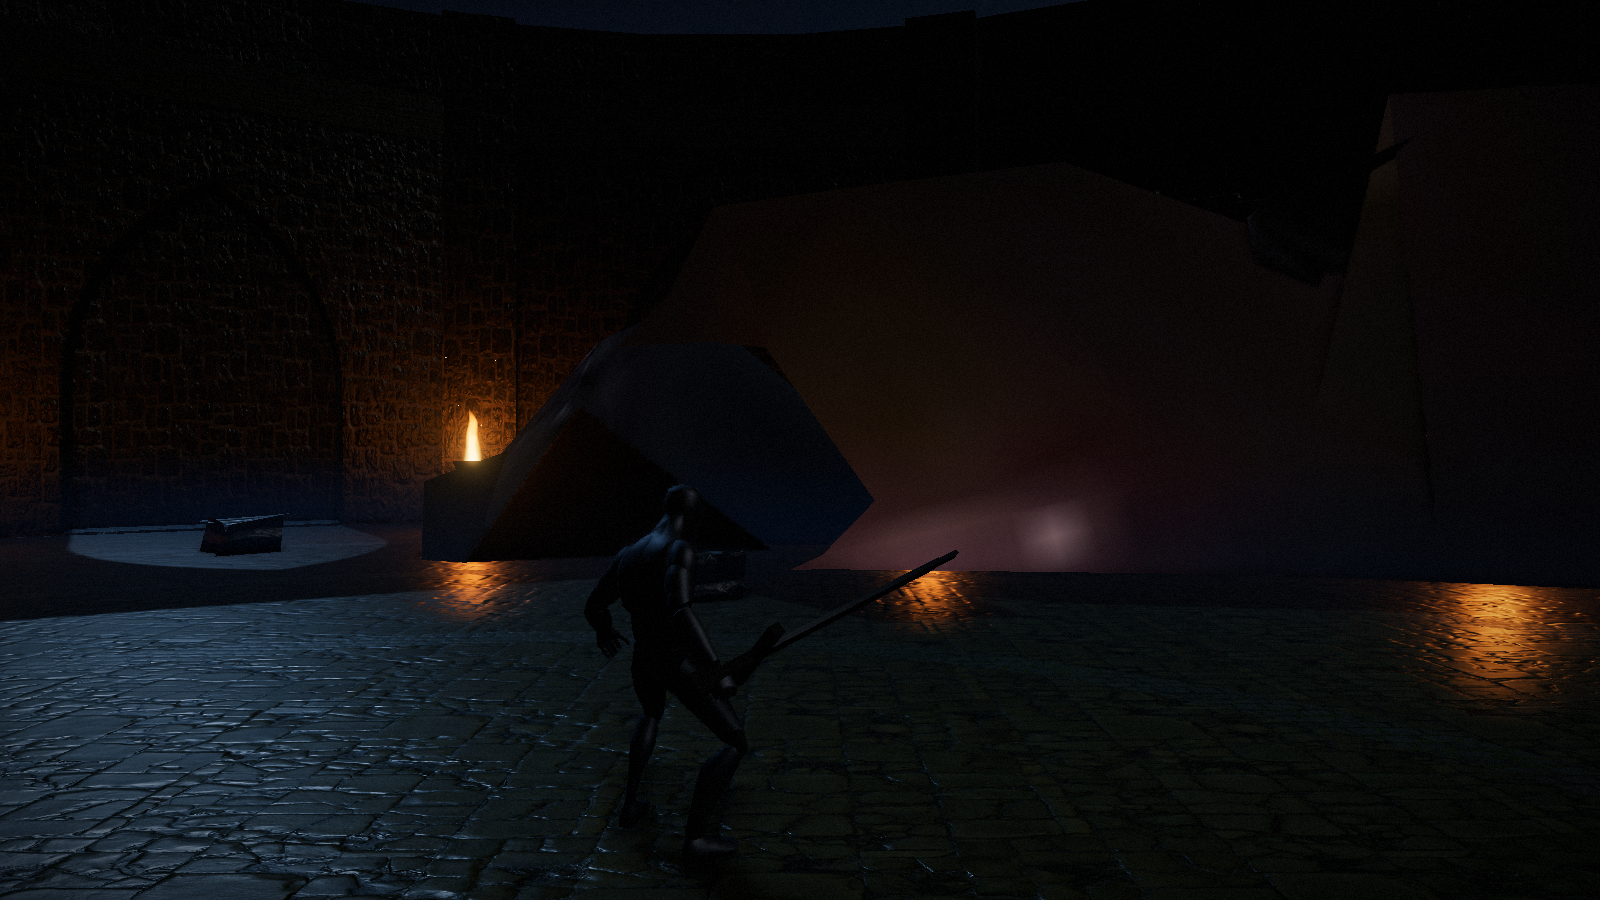
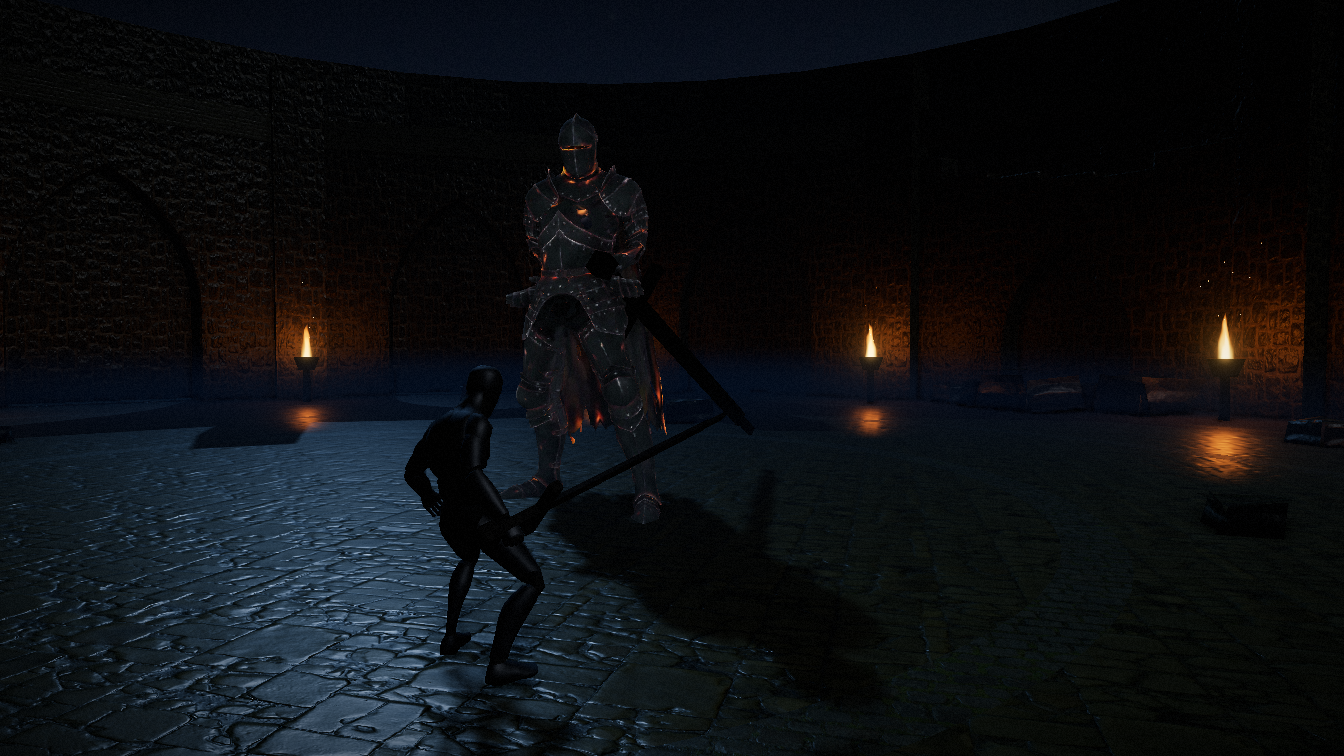
Retarget próprio do Vharen: pose parada correta, movimento ainda não
Troquei o SkeletonUtils.retarget do Three por um retarget escrito à mão, só de
rotação: guarda a rotação entre os repousos dos dois esqueletos e aplica
alvo_mundo = fonte_mundo * offset, convertendo pro espaço local do pai, com os
ossos ordenados por profundidade. O utilitário do Three estourava a malha de
1,95 para 17 595 metros numa única chamada.

Com isso a escala parou de explodir, o chefe fica na altura certa e plantado no
chão por medição do pé mais baixo a cada frame. Parado, é o cavaleiro do
concept, com as brasas acesas nas costuras.

Em movimento ainda deforma: partes do corpo se separam e o andar parece galope.
As proporções e os eixos de repouso dos dois esqueletos são diferentes demais
pra correspondência osso a osso sem ajuste manual. Fica atrás de ?vharen e o
padrão segue o mannequim CC0, que anima certo.

Três medidas que valem registro estão em docs/decisions.md: a coluna do modelo
gerado tem a numeração invertida, o nó da malha carrega escala 0,01 embutida, e
a caixa da geometria mente porque ignora o esfolamento.

diff --git a/src/entities/anim/retarget.ts b/src/entities/anim/retarget.ts
@@ -1,5 +1,5 @@
-import { Object3D, type Material, type Mesh, type SkinnedMesh } from 'three/webgpu'
-import { clone as cloneSkinned, retarget } from 'three/addons/utils/SkeletonUtils.js'
+import { Object3D, Quaternion, Vector3, type Bone, type Material, type Mesh, type SkinnedMesh } from 'three/webgpu'
+import { clone as cloneSkinned } from 'three/addons/utils/SkeletonUtils.js'
 import type { GLTF } from 'three/addons/loaders/GLTFLoader.js'
 
 /**
@@ -8,14 +8,14 @@ import type { GLTF } from 'three/addons/loaders/GLTFLoader.js'
  * O modelo do Vharen sai do image-to-3D com nomenclatura padrão de humanoide
  * (`Hips`, `LeftArm`, `RightHand`), e a biblioteca de animação usa a do Rigify
  * (`DEF-hips`, `DEF-upper_arm.L`), que o carregador de glTF do Three ainda
- * limpa tirando os pontos. Este mapa é a ponte entre os dois.
+ * limpa tirando os pontos.
+ *
+ * Cuidado com a coluna: a cadeia do modelo gerado é
+ * `Hips -> Spine02 -> Spine01 -> Spine`, ou seja `Spine02` é a vértebra de
+ * baixo e `Spine` é a de cima, ao contrário do que o nome sugere.
  */
 const BONE_MAP: Record<string, string> = {
   Hips: 'DEF-hips',
-  // Cuidado com a coluna: a cadeia do modelo gerado é
-  // `Hips -> Spine02 -> Spine01 -> Spine`, ou seja `Spine02` é a vértebra de
-  // baixo e `Spine` é a de cima, ao contrário do que o nome sugere. Mapear na
-  // ordem óbvia torce o tronco e a malha vira uma cunha.
   Spine02: 'DEF-spine001',
   Spine01: 'DEF-spine002',
   Spine: 'DEF-spine003',
@@ -39,6 +39,15 @@ const BONE_MAP: Record<string, string> = {
   RightToeBase: 'DEF-toeR',
 }
 
+interface Pair {
+  target: Bone
+  source: Bone
+  /** Rotação que leva do repouso da fonte pro repouso do alvo, em mundo. */
+  offset: Quaternion
+  /** Profundidade na hierarquia. Serve pra processar pai antes de filho. */
+  depth: number
+}
+
 export interface RetargetedSkin {
   root: Object3D
   hand: Object3D | null
@@ -47,8 +56,8 @@ export interface RetargetedSkin {
 }
 
 export interface SkinOptions {
-  /** Escala aplicada na raiz. O modelo gerado vem em centésimos de metro. */
-  scale: number
+  /** Altura desejada do personagem em metros. A escala sai daqui. */
+  height: number
   material?: Material
   castShadow?: boolean
 }
@@ -56,11 +65,17 @@ export interface SkinOptions {
 /**
  * Veste um esqueleto animado com outra malha.
  *
- * Em vez de assar cada clipe da biblioteca no esqueleto novo, o esqueleto CC0
- * continua dirigindo a animação, invisível, e a pose é copiada pro modelo
- * gerado a cada frame. Reaproveita a máquina de estados inteira, não depende de
- * assar 46 clipes que podem sair errados, e custa 22 ossos por frame, que é
- * nada. O preço é uma malha a mais na cena, que já estava no orçamento.
+ * O `SkeletonUtils.retarget` do Three não dá conta destes dois esqueletos: uma
+ * única chamada estoura a malha de 1,95 para 17 mil metros, porque ele escreve
+ * matrizes derivadas do espaço de mundo de volta nos ossos locais e a diferença
+ * de escala entre as duas hierarquias entra junto.
+ *
+ * Este retarget faz a conta explícita e só com rotação, que é o que interessa:
+ * para cada par de ossos, guarda no início a rotação que leva do repouso da
+ * fonte pro repouso do alvo, e a cada frame aplica
+ * `alvo_mundo = fonte_mundo * essa_rotação`, convertendo pro espaço local do
+ * pai do alvo. Nenhuma escala entra na conta, então nada acumula. Só o quadril
+ * carrega posição, escalada pela razão de altura entre os dois esqueletos.
  */
 export function createRetargetedSkin(
   gltf: GLTF,
@@ -68,13 +83,12 @@ export function createRetargetedSkin(
   options: SkinOptions,
 ): RetargetedSkin {
   const root = cloneSkinned(gltf.scene) as Object3D
-  root.scale.setScalar(options.scale)
 
-  let target: SkinnedMesh | null = null
+  let targetMesh: SkinnedMesh | null = null
   let hand: Object3D | null = null
   root.traverse((child) => {
     const mesh = child as SkinnedMesh
-    if (mesh.isSkinnedMesh && !target) target = mesh
+    if (mesh.isSkinnedMesh && !targetMesh) targetMesh = mesh
     if ((child as Mesh).isMesh) {
       const asMesh = child as Mesh
       asMesh.castShadow = options.castShadow ?? true
@@ -85,6 +99,60 @@ export function createRetargetedSkin(
   })
 
   const sourceMesh = findSkinnedMesh(source)
+  const pairs: Pair[] = []
+
+  if (targetMesh && sourceMesh) {
+    const target = targetMesh as SkinnedMesh
+    const from = sourceMesh as SkinnedMesh
+    // Repouso dos dois, pra medir a diferença de orientação uma vez só.
+    target.skeleton.pose()
+    from.skeleton.pose()
+    root.updateMatrixWorld(true)
+    source.updateMatrixWorld(true)
+
+    const sourceQuat = new Quaternion()
+    const targetQuat = new Quaternion()
+
+    for (const bone of target.skeleton.bones) {
+      const sourceName = BONE_MAP[bone.name]
+      if (!sourceName) continue
+      const sourceBone = from.skeleton.bones.find((b) => b.name === sourceName)
+      if (!sourceBone) continue
+
+      bone.matrixWorld.decompose(new Vector3(), targetQuat, new Vector3())
+      sourceBone.matrixWorld.decompose(new Vector3(), sourceQuat, new Vector3())
+      const offset = sourceQuat.clone().invert().multiply(targetQuat)
+
+      pairs.push({ target: bone, source: sourceBone, offset, depth: depthOf(bone) })
+    }
+  }
+
+  // Escala e altura do chão saem de medição, não de constante. A caixa da
+  // geometria não serve aqui: ela ignora o esfolamento, e o nó da malha ainda
+  // carrega uma escala própria embutida pelo gerador. O jeito honesto é
+  // percorrer os vértices já deformados e já passados pela matriz de mundo.
+  if (targetMesh) {
+    const measured = measureSkinned(root, targetMesh as SkinnedMesh)
+    if (measured.height > 0) {
+      const scale = options.height / measured.height
+      root.scale.setScalar(scale)
+      root.position.y = -measured.base * scale
+    }
+  }
+
+  // Pai antes de filho. A conversão pro espaço local usa a matriz de mundo do
+  // pai, e se ela ainda for a do frame anterior a rotação sai errada e treme.
+  pairs.sort((a, b) => a.depth - b.depth)
+
+  // Ossos do pé, usados pra plantar o chefe no chão a cada frame.
+  const feet = (targetMesh as SkinnedMesh | null)?.skeleton.bones.filter((b) =>
+    FOOT_BONES.includes(b.name),
+  ) ?? []
+  let groundOffset = root.position.y
+
+  const worldQuat = new Quaternion()
+  const parentQuat = new Quaternion()
+  const scratch = new Vector3()
 
   return {
     root,
@@ -92,19 +160,97 @@ export function createRetargetedSkin(
       return hand
     },
     update() {
-      if (!target || !sourceMesh) return
-      // `preserveBonePositions` é o nome que a implementação da r185 lê. O
-      // pacote de tipos ainda declara o nome antigo, daí a conversão.
-      retarget(target, sourceMesh, {
-        names: BONE_MAP,
-        // O quadril é o único osso cuja posição importa: o resto é rotação.
-        hip: 'DEF-hips',
-        preserveBoneMatrix: false,
-        useTargetMatrix: true,
-        preserveBonePositions: true,
-      } as Parameters<typeof retarget>[2])
+      if (pairs.length === 0) return
+      // A fonte é animada pelo mixer, que só mexe nos transformes locais. Sem
+      // isto, a pose copiada seria a do frame anterior.
+      source.updateMatrixWorld(true)
+
+      for (const pair of pairs) {
+        // Rotação da fonte em mundo, mais a diferença de repouso.
+        pair.source.matrixWorld.decompose(scratch, worldQuat, scratch)
+        worldQuat.multiply(pair.offset)
+
+        // Pro espaço local do pai do alvo. Sem isso a rotação sai duplicada.
+        const parent = pair.target.parent
+        if (parent) {
+          parent.matrixWorld.decompose(scratch, parentQuat, scratch)
+          pair.target.quaternion.copy(parentQuat.invert().multiply(worldQuat))
+        } else {
+          pair.target.quaternion.copy(worldQuat)
+        }
+        // Só este osso: os filhos vêm depois na lista, já ordenada.
+        pair.target.updateMatrix()
+        pair.target.updateMatrixWorld(false)
+      }
+
+      // Planta no chão pelo pé mais baixo.
+      //
+      // Alinhar só uma vez, na pose de repouso, não basta: com as pernas
+      // dobradas de uma pose animada os pés sobem e o chefe fica boiando.
+      // Medir a cada frame e corrigir com amortecimento mantém ele plantado
+      // em qualquer pose, sem tremer.
+      if (feet.length > 0) {
+        let lowest = Infinity
+        for (const foot of feet) {
+          const y = foot.matrixWorld.elements[13]
+          if (y < lowest) lowest = y
+        }
+        const parentY = root.parent ? root.parent.matrixWorld.elements[13] : 0
+        const desired = groundOffset - (lowest - parentY)
+        groundOffset += (desired - groundOffset) * 0.25
+        root.position.y = groundOffset
+      }
+
+      // Nenhum osso leva translação, nem o quadril.
+      //
+      // O deslocamento do personagem no mundo vem da cápsula da física, não da
+      // animação, então copiar a translação do quadril só serve pra tirar o
+      // chefe do chão: as duas hierarquias têm proporções diferentes e o erro
+      // aparece como pé no ar. Rotação pura mantém ele plantado.
     },
   }
+}
+
+/**
+ * Altura e base da malha com pele, em unidades da raiz e na pose de repouso.
+ * Amostra um vértice a cada cinquenta, que é folgado pra caixa envolvente e
+ * roda em milissegundos numa malha de 76 mil vértices.
+ */
+function measureSkinned(root: Object3D, mesh: SkinnedMesh): { height: number; base: number } {
+  const previousScale = root.scale.x
+  const previousY = root.position.y
+  root.scale.setScalar(1)
+  root.position.y = 0
+  mesh.skeleton.pose()
+  root.updateMatrixWorld(true)
+
+  const point = new Vector3()
+  let min = Infinity
+  let max = -Infinity
+  const count = mesh.geometry.attributes.position.count
+  for (let i = 0; i < count; i += 50) {
+    mesh.getVertexPosition(i, point)
+    point.applyMatrix4(mesh.matrixWorld)
+    if (point.y < min) min = point.y
+    if (point.y > max) max = point.y
+  }
+
+  root.scale.setScalar(previousScale)
+  root.position.y = previousY
+  return { height: max - min, base: min }
+}
+
+/** Pés e dedos do modelo gerado. O mais baixo dos quatro define o chão. */
+const FOOT_BONES = ['LeftFoot', 'RightFoot', 'LeftToeBase', 'RightToeBase']
+
+function depthOf(bone: Object3D): number {
+  let depth = 0
+  let node: Object3D | null = bone.parent
+  while (node) {
+    depth++
+    node = node.parent
+  }
+  return depth
 }
 
 function findSkinnedMesh(root: Object3D): SkinnedMesh | null {

diff --git a/src/entities/appearance.ts b/src/entities/appearance.ts
@@ -5,6 +5,8 @@ import {
   Mesh,
   MeshStandardNodeMaterial,
   Object3D,
+  Quaternion,
+  Vector3,
   type Material,
 } from 'three/webgpu'
 
@@ -97,13 +99,22 @@ export function buildGreatsword(scale = 1): Object3D {
 }
 
 /**
- * Prende a arma no osso da mão. O osso vem com a escala do esqueleto, então a
- * arma entra com a escala compensada, senão ela cresce junto com o chefe duas
- * vezes: uma pela raiz e outra pelo osso.
+ * Prende a arma no osso da mão, com a escala compensada.
+ *
+ * O osso herda a escala de toda a hierarquia acima dele, que no modelo gerado
+ * chega a duzentas e trinta vezes. Sem compensar, uma espada de escala 1 sai
+ * do tamanho de um prédio. `size` é o tamanho final desejado em metros de
+ * mundo, e a compensação é medida no próprio osso.
  */
-export function attachToHand(hand: Object3D, weapon: Object3D): void {
+export function attachToHand(hand: Object3D, weapon: Object3D, size = 1): void {
+  hand.updateWorldMatrix(true, false)
+  const boneScale = new Vector3()
+  hand.matrixWorld.decompose(new Vector3(), new Quaternion(), boneScale)
+  const compensation = boneScale.x > 0.0001 ? size / boneScale.x : size
+
   // Alinhamento do punho: o cabo aponta pro dedo, a lâmina sai pra fora.
   weapon.rotation.set(Math.PI * 0.52, 0, Math.PI * 0.06)
-  weapon.position.set(0, 0.04, 0.02)
+  weapon.position.set(0, 0.04 * compensation, 0.02 * compensation)
+  weapon.scale.multiplyScalar(compensation)
   hand.add(weapon)
 }

diff --git a/src/game.ts b/src/game.ts
@@ -17,14 +17,6 @@ import { LAYOUT } from './world/layout'
 const MODEL = 'assets/models/personagem-cc0.glb'
 /** Vharen definitivo, gerado a partir do concept e riggado. */
 const BOSS_MODEL = 'assets/models/vharen.glb'
-/**
- * Altura e base do modelo gerado, medidas nos vértices já deformados pelo
- * esqueleto. Não dá pra confiar na caixa da geometria aqui: ela ignora o
- * esfolamento e devolve 0,02, cem vezes menor que o tamanho real. E a origem
- * do modelo fica no centro do corpo, não nos pés, daí o deslocamento.
- */
-const BOSS_MODEL_HEIGHT = 1.998
-const BOSS_MODEL_BASE = -0.998
 /** Duração da apresentação do chefe, em segundos. */
 const CUTSCENE_SECONDS = 4.2
 const PHASE_ONE_EMBER = 2.6
@@ -97,9 +89,9 @@ export async function createGame(options: {
   try {
     if (!querVharenFinal) throw new Error('desligado')
     const bossGltf = await assets.model(BOSS_MODEL)
-    const bossScale = boss.height / BOSS_MODEL_HEIGHT
-    bossFinal = createRetargetedSkin(bossGltf, bossRig.root, { scale: bossScale })
-    bossFinal.root.position.y = -BOSS_MODEL_BASE * bossScale
+    bossFinal = createRetargetedSkin(bossGltf, bossRig.root, { height: boss.height })
+    // Montante na escala do chefe: duas vezes e meia o do jogador.
+    if (bossFinal.hand) attachToHand(bossFinal.hand, buildGreatsword(1), 2.5)
     bossRig.root.visible = false
     boss.object.add(bossFinal.root)
   } catch (error) {

diff --git a/docs/decisions.md b/docs/decisions.md
@@ -135,3 +135,39 @@ Medi as durações dos clipes no glTF antes de mexer em qualquer coisa:
 - **Telegrafia por brasa.** A brasa do Vharen carrega durante a preparação do
   golpe e estoura no impacto. Sem um aviso que não seja a própria animação, um
   chefe grande com golpe largo vira sorte.
+
+## 2026-09-08, Vharen gerado: o que funcionou e o que não
+
+O modelo saiu bom: 56 580 triângulos, textura 2048 com PBR e emissivo já
+mapeado nas brasas, riggado com 24 ossos, e comprimido de 11,4 MB para 1,47 MB
+com Meshopt. Parado, ele é o cavaleiro do concept.
+
+O que não fecha é passar as animações da biblioteca CC0 pro esqueleto dele.
+Registro os becos sem saída pra não repetir:
+
+- **`SkeletonUtils.retarget` do Three não serve pra esses dois esqueletos.** Uma
+  única chamada estoura a malha de 1,95 para 17 595 metros. Ele escreve matrizes
+  derivadas do espaço de mundo de volta nos transformes locais, e a diferença
+  entre as duas hierarquias entra na conta. Testado com todas as combinações de
+  `preserveBoneMatrix`, `preserveBonePositions` e `useTargetMatrix`.
+- **Escrevi um retarget próprio, só de rotação,** guardando no início a rotação
+  entre os repousos e aplicando `alvo_mundo = fonte_mundo * offset` convertido
+  pro espaço local do pai. Isso estabilizou a escala e a pose parada ficou
+  correta, com o chefe de pé, na altura certa e plantado no chão.
+- **Mas a pose em movimento sai deformada.** Partes do corpo se separam e o
+  andar parece galope. As proporções e os eixos de repouso dos dois esqueletos
+  são diferentes demais pra correspondência osso a osso sem ajuste manual.
+
+Três coisas foram medidas no caminho e valem por si:
+
+- A cadeia da coluna do modelo gerado é `Hips -> Spine02 -> Spine01 -> Spine`,
+  ou seja o número não segue a ordem anatômica.
+- O nó da malha carrega uma escala própria de 0,01. Medir a altura sem passar
+  pela matriz de mundo da malha erra por um fator de cem.
+- A caixa da geometria ignora o esfolamento. A única medida confiável é
+  percorrer os vértices com `getVertexPosition` e aplicar a matriz de mundo.
+
+**Decisão:** o Vharen gerado fica atrás de `?vharen` e o padrão continua sendo o
+mannequim CC0, que anima certo. Fechar isso direito quer o retarget feito fora
+do jogo, com correção osso a osso, e entregue como GLB pronto. Sem isso, é
+trocar um chefe que funciona por um bonito que se desmonta andando.
